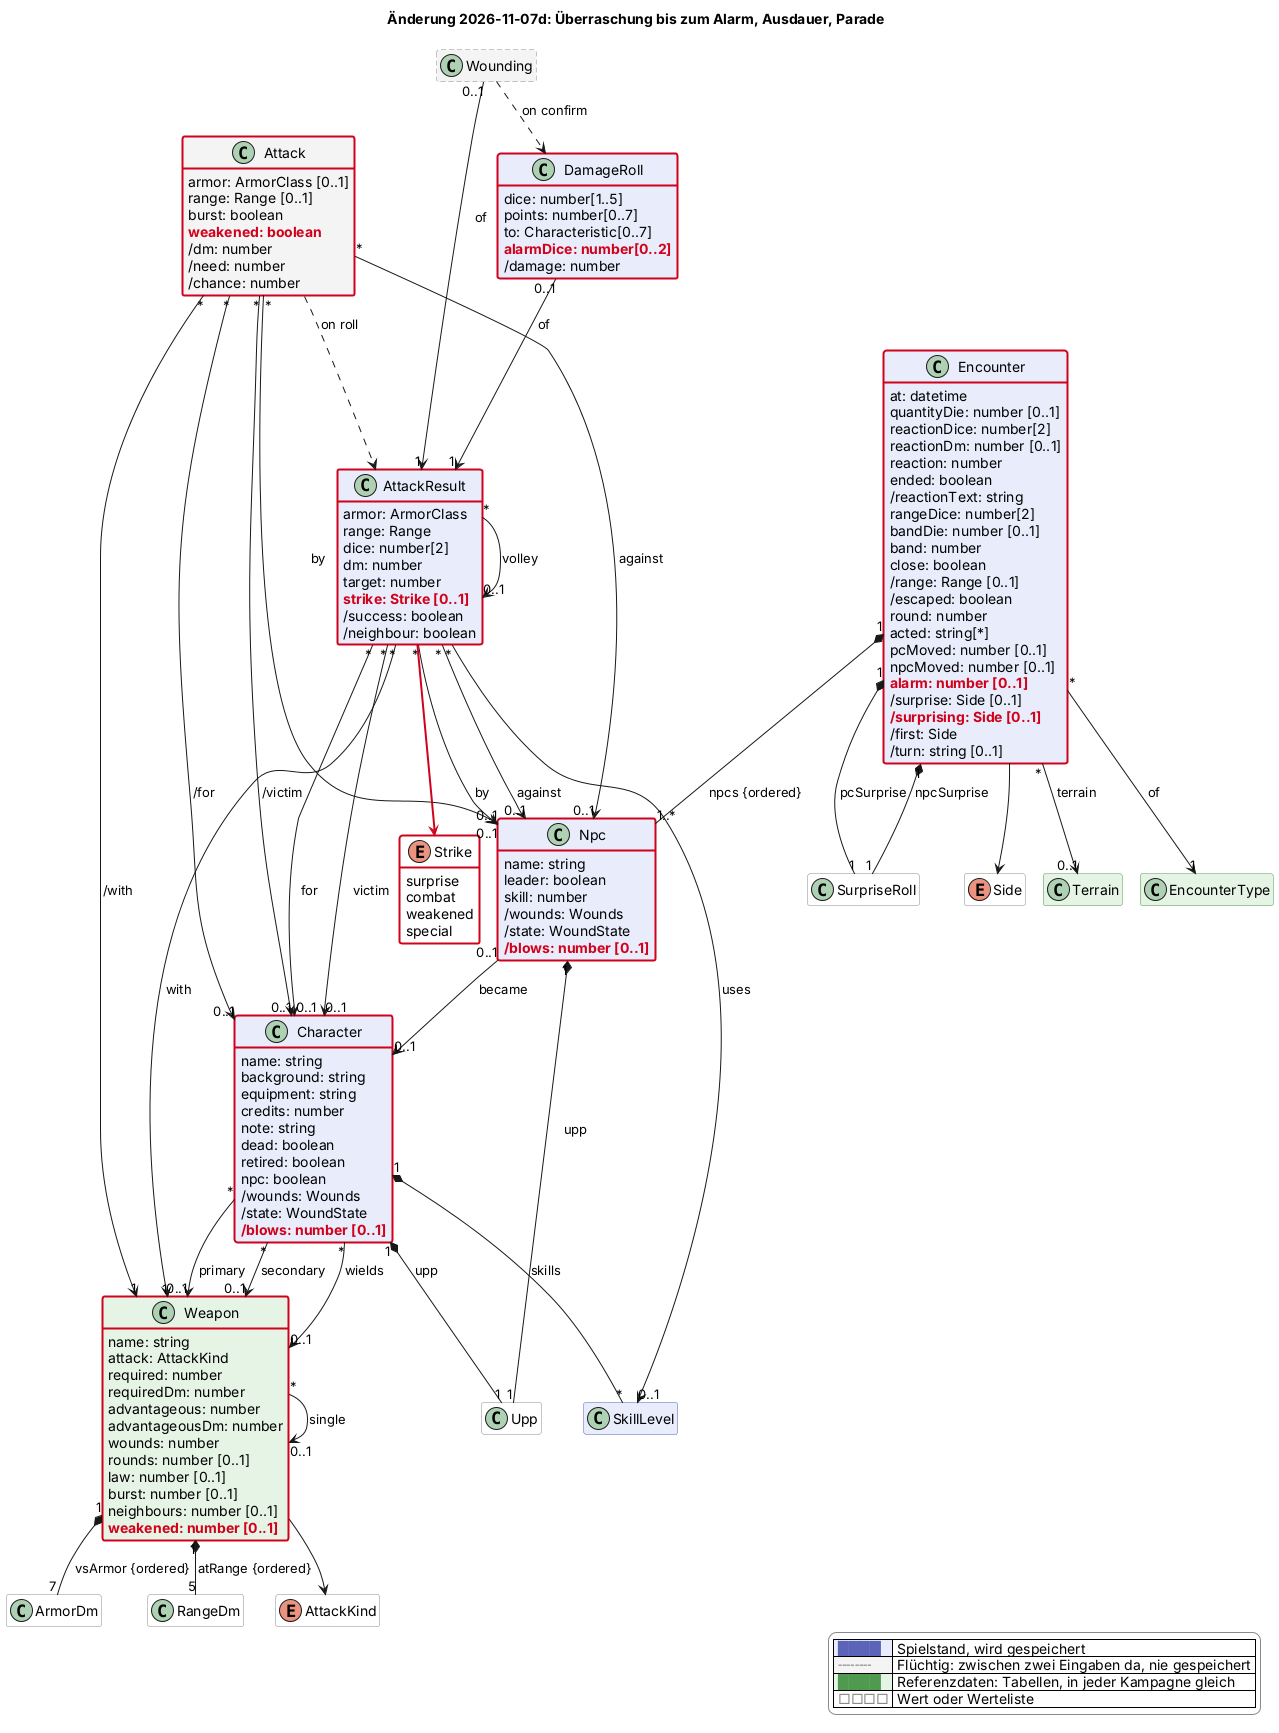
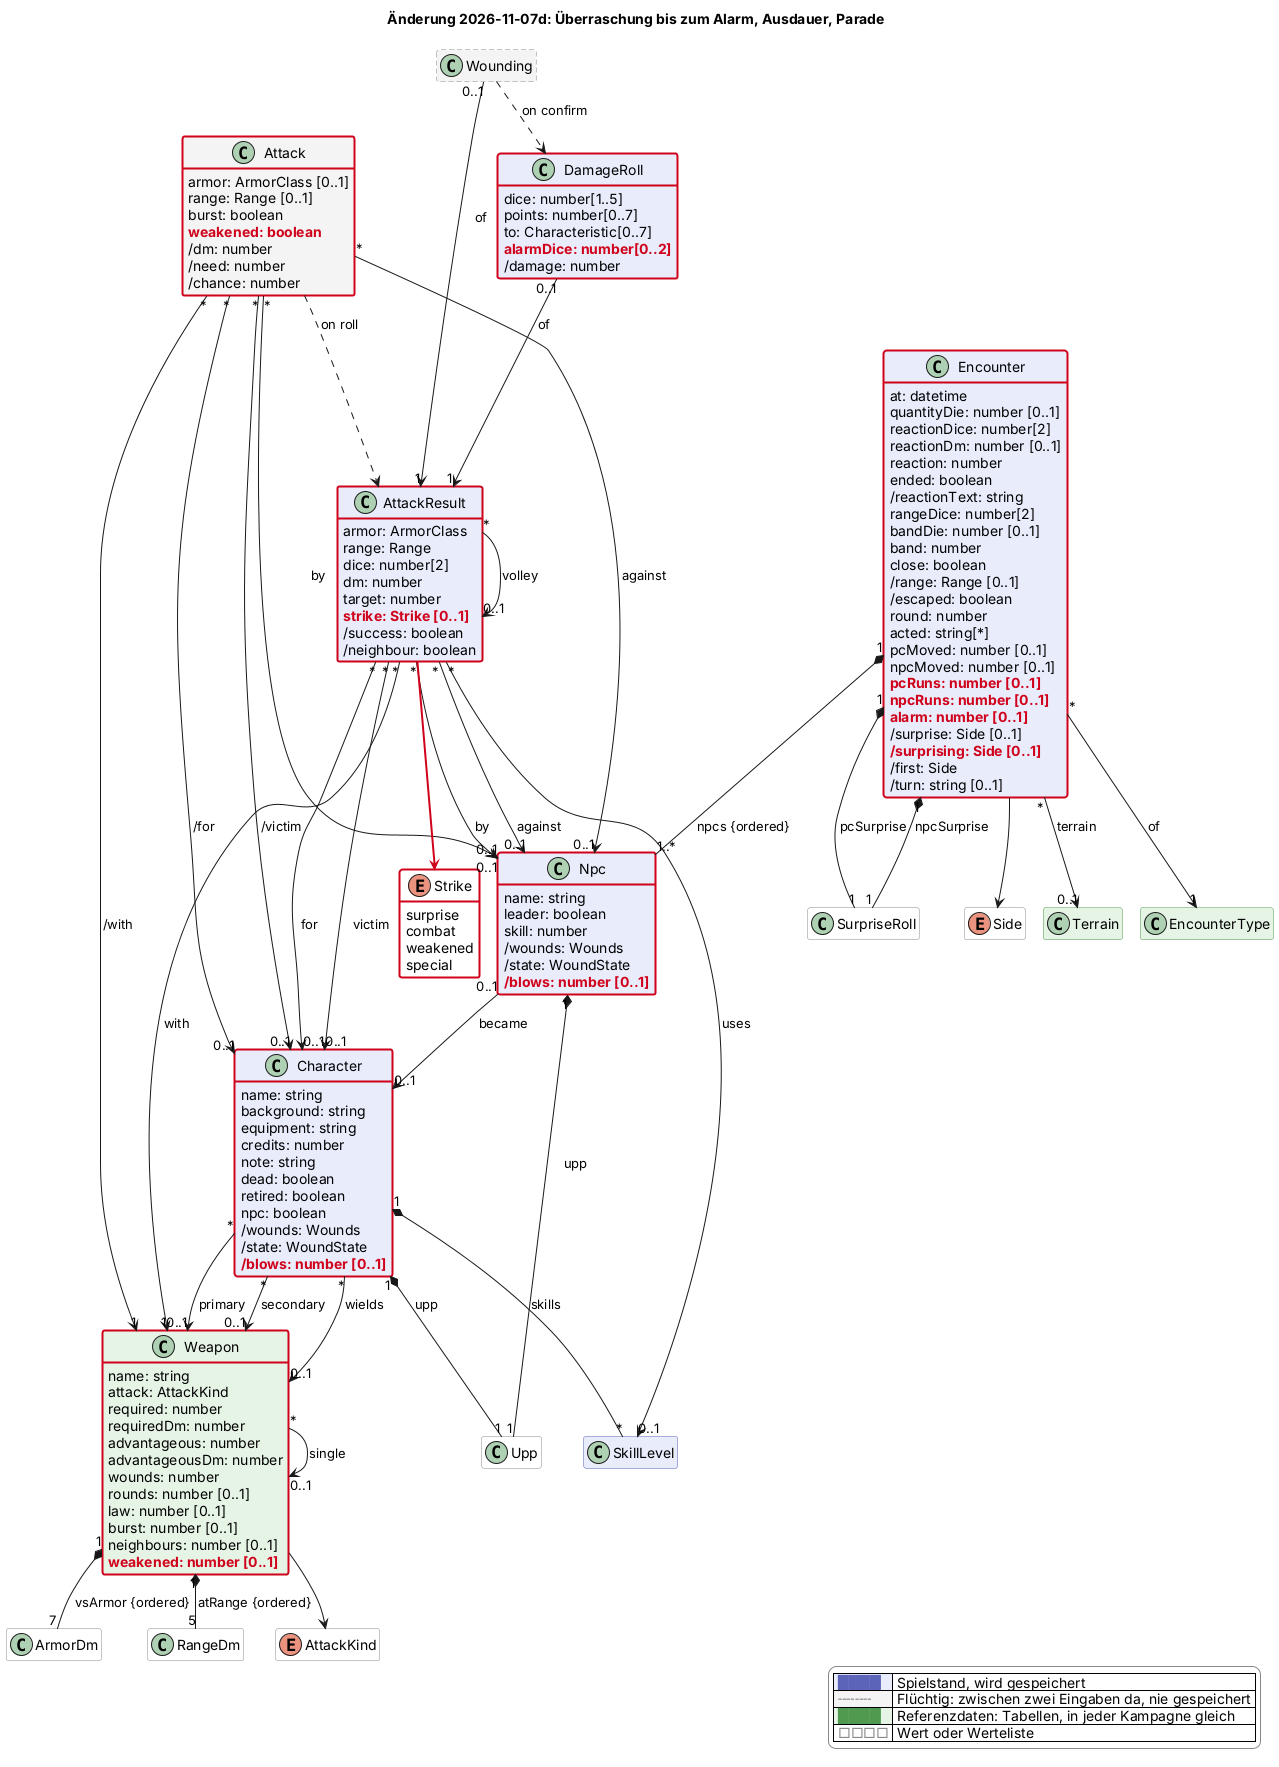
Modell: Laufen kostet einen Combat-Schlag (zur Änderung 2026-11-07d)
Claude-Session: https://claude.ai/code/session_016ZF27ydEEpW6rHry5vq6jZ

diff --git a/docs/domain-model.md b/docs/domain-model.md
@@ -141,7 +141,7 @@ Lücken unter [Wo der Code noch nicht folgt](#wo-der-code-noch-nicht-folgt).
 >
 > **Wartet auf Freigabe** (7. November 2026): **Überraschung bis zum Alarm, Ausdauer und Parade**
 > nach dem Regelheft (SR 20–22; siehe *Kampfsimulation*, *Ausdauer*, *Parade*). Im Bild:
-> `Encounter.alarm` und `/surprising`, `DamageRoll.alarmDice`, `AttackResult.strike` mit `Strike`,
+> `Encounter.alarm` und `/surprising`, `Encounter.pcRuns` und `npcRuns`, `DamageRoll.alarmDice`, `AttackResult.strike` mit `Strike`,
 > `Attack.weakened`, `Weapon.weakened` und `/blows` an `Character` und `Npc`. Der Ausschnitt dazu
 > liegt unter
 > [`changes/2026-11-07-ueberraschung-ausdauer-parade.png`](changes/2026-11-07-ueberraschung-ausdauer-parade.png).
@@ -300,7 +300,8 @@ Vacc Suit, Jack-of-all-Trades, …), Terms, Cr.
 | Alarm | `Encounter.alarm` | Die Runde, in der die überraschte Partei Alarm gegeben hat; danach hält die Überraschung nicht mehr (SR 20) |
 | Überraschung hält | `/surprising` | Die Partei mit Überraschung, solange es keinen Alarm gab, einschließlich der Runde des Alarms |
 | Schlagart | `AttackResult.strike`, `Strike` | Wie ein Schlag oder Hieb zählt: Überraschung, Combat, geschwächt oder Special (SR 22) |
-| Combat-Schläge | `/blows` | Wie viele volle Schläge und Hiebe ein Kämpfer in der laufenden Begegnung noch hat: END zu Beginn der Begegnung minus die Combat-Schläge |
+| Combat-Schläge | `/blows` | Wie viele volle Schläge und Hiebe ein Kämpfer in der laufenden Begegnung noch hat: END zu Beginn der Begegnung minus die Combat-Schläge und die Läufe seiner Partei |
+| Lauf | `Encounter.pcRuns`, `npcRuns` | Eine Runde, in der eine Partei 2 Bands gelaufen ist; kostet jeden ihrer Kämpfer einen Combat-Schlag |
 | Geschwächter Schlag | `Strike.weakened`, `Weapon.weakened`, `Attack.weakened` | Ein Schlag oder Hieb ohne volle Kraft, mit dem DM der Waffe; zählt nicht gegen die END |
 | Parade | (Regel) | Wer mit Faust oder Klinge angegriffen wird und selbst Faust, Klinge oder ein Gewehr führt, zieht seine Stufe darin vom Wurf ab (SR 22) |
 | Partei | `Side` | Die SC (`pcs`) oder die NSC der Begegnung (`npcs`) |
@@ -838,7 +839,10 @@ Vacc Suit, Jack-of-all-Trades, …), Terms, Cr.
     - *Gehen*: 1 Band je Runde; danach greifen ihre Kämpfer wie sonst an.
     - *Laufen*: ein zweites Band in derselben Runde, aber nur, solange noch keiner ihrer Kämpfer in
       dieser Runde dran war. Wer läuft, greift nicht an (Book 1: Laufen zählt wie ein Schlag): Hat
-      eine Partei 2 Bands, setzen ihre Kämpfer in dieser Runde aus; Nachladen geht.
+      eine Partei 2 Bands, setzen ihre Kämpfer in dieser Runde aus; Nachladen geht. Laufen kostet
+      jeden Kämpfer der Partei einen Combat-Schlag (SR 20, siehe *Ausdauer*); wie oft eine Partei in
+      der Begegnung gelaufen ist, steht an der Begegnung (`pcRuns`, `npcRuns`; fehlt: 0); das zweite
+      Band zählt sie hoch.
     - Mehr als 2 Bands je Runde gehen nicht.
     - *Frei setzen* (Ermessen der Spielleitung): Langes Drücken auf den Strahl der Entfernung setzt
       das Band frei, jederzeit, ohne Grenze und ohne dass es als Bewegung zählt; z. B. um einen
@@ -893,15 +897,16 @@ Vacc Suit, Jack-of-all-Trades, …), Terms, Cr.
     damit er nicht gegen die END zählt); sonst **Combat** (`combat`). Ein NSC schwächt nie freiwillig.
   - *Combat-Schläge* (`/blows` an SC und NSC): END zu Beginn der Begegnung, also die END mit den
     Wunden, die vor dem ersten Logeintrag der Begegnung (nach `Encounter.at`) bestanden, minus die
-    Angriffe dieses Kämpfers in der Begegnung mit der Schlagart Combat. Wunden in der Begegnung
-    senken die Zahl nicht. Fehlt ohne laufende Begegnung und bei Battle Dress (unbegrenzte Ausdauer,
+    Angriffe dieses Kämpfers in der Begegnung mit der Schlagart Combat und minus die Läufe seiner
+    Partei (`pcRuns` bzw. `npcRuns`), nie unter 0. Wunden in der Begegnung senken die Zahl nicht.
+    Laufen geht auch ohne Combat-Schläge (Hausregel; die Regel sagt dazu nichts). Fehlt ohne laufende Begegnung und bei Battle Dress (unbegrenzte Ausdauer,
     S. 4).
   - *Geschwächt*: DM `Weapon.weakened` aus der Waffentabelle (Charts S. 4, *Weakened Blow or Swing*:
     Hands −2, Club −1, Dagger −2, Blade −2, Foil −2, Cutlass −4, Sword −3, Broadsword −4, Bayonet −2,
     Spear −3, Halberd −3, Pike −3, Cudgel −1). Er steckt im DM des Angriffsergebnisses (`dm`).
   - Ein Schlag oder Hieb je Runde gilt schon: Jeder Kämpfer hat einen Zug je Runde.
   - Eine neue Begegnung beginnt mit der END, die der Kämpfer dann hat; die 30 Minuten Rast der Regel
-    hält die App nicht fest. **Später**: Laufen zählt als Combat-Schlag.
+    hält die App nicht fest.
 - **Parade** (SR 22, *Parrying*). Greift jemand mit einem Schlag oder Hieb an und führt das Ziel selbst
   eine Faust- oder Nahkampfwaffe (`blow` oder `swing`, auch die Hände) oder ein langes Gewehr (Rifle,
   Carbine, Automatic Rifle, Shotgun, als Cudgel; keine Pistole, keine SMG, kein Laser), pariert es:
